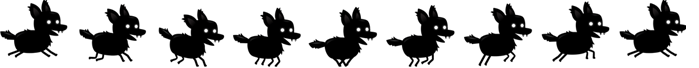
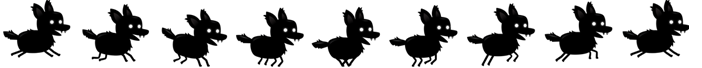
animação 1
movimento de andar , animação somente ao andar, movimento animar na próxima

diff --git a/java.js b/java.js
@@ -28,10 +28,11 @@ playerimage.src="img/shadow/correndo.png";
 var poschao = alturaDoCanvas -61 ;  // altura do canvas menos o tamanho do personagem 
 var playerPosX = 0;  // posição do player   X
 var playerPosY = poschao; // posição do player   Y
-var playerTamanhoW =700;
+var playerTamanhoW =playerimage.width;
 var playerTamanhoH = 68;
 var quantidadeDeSprits = 9;
 var pulo = 10;
+var velocidade =10;
 
 
 ///////////////////////////////////////////////////////////////////////////////////////////////////////
@@ -41,45 +42,72 @@ var pulo = 10;
 var indiceDoSprite = 0;
 var CorreSprit = 0;
 var inicioDoRecorteY = 0;
-var LarguraRecorte= 70 ;
+var LarguraRecorte= 77 ;
 var AlturaRecorte= 70;
 
 var larguraDoSprite =  playerTamanhoW/quantidadeDeSprits;
 
-indiceDoSprite  = CorreSprit*larguraDoSprite;
+
 ///////////////////////////////////////////////////////////////////////////////////////////////////////
 
 
 
+function limpa ()
+{
+    ctx.clearRect(playerPosX,playerPosY,larguraDoSprite,playerTamanhoH);
+
+
+}
 
 
 
 function animate (){
      playerimage.onload =  ()=>{ 
 
+        ctx.drawImage (playerimage,indiceDoSprite,inicioDoRecorteY,LarguraRecorte,AlturaRecorte,playerPosX,playerPosY,larguraDoSprite,playerTamanhoH) 
  
+    }
+
+
+
+    let anima = setInterval( ()=>{ 
+  
+        indiceDoSprite  = CorreSprit*larguraDoSprite;
+        
+         if(CorreSprit>8) {CorreSprit= 0;}  
       
-       
+      limpa();
+         ctx.drawImage (playerimage,indiceDoSprite,inicioDoRecorteY,LarguraRecorte,AlturaRecorte,playerPosX,playerPosY,larguraDoSprite,playerTamanhoH) 
+
+     },0.500)
+
+    }
 
 
-   let anima = setInterval( ()=>{ 
-  
-    indiceDoSprite  = CorreSprit*larguraDoSprite;
-    CorreSprit++; if(CorreSprit>8){CorreSprit= 0;}  
+    
+  window.addEventListener('keydown',(event)=>
+  {
 
-    ctx.clearRect(playerPosX,playerPosY,70,70);
 
+if(event.keyCode===39) 
+    {
+        
+       limpa();
+        playerPosX+= velocidade
+        CorreSprit++;
    
-    ctx.drawImage (playerimage,indiceDoSprite,inicioDoRecorteY,LarguraRecorte,AlturaRecorte,playerPosX,playerPosY,70,70) 
-},100)
+    }
+    else if(event.keyCode===37)
+    { 
+        limpa();
+        playerPosX-= velocidade
 
-
-
-
+ 
     }
 
-    }
-  
+
+
+  })
 
 
 
